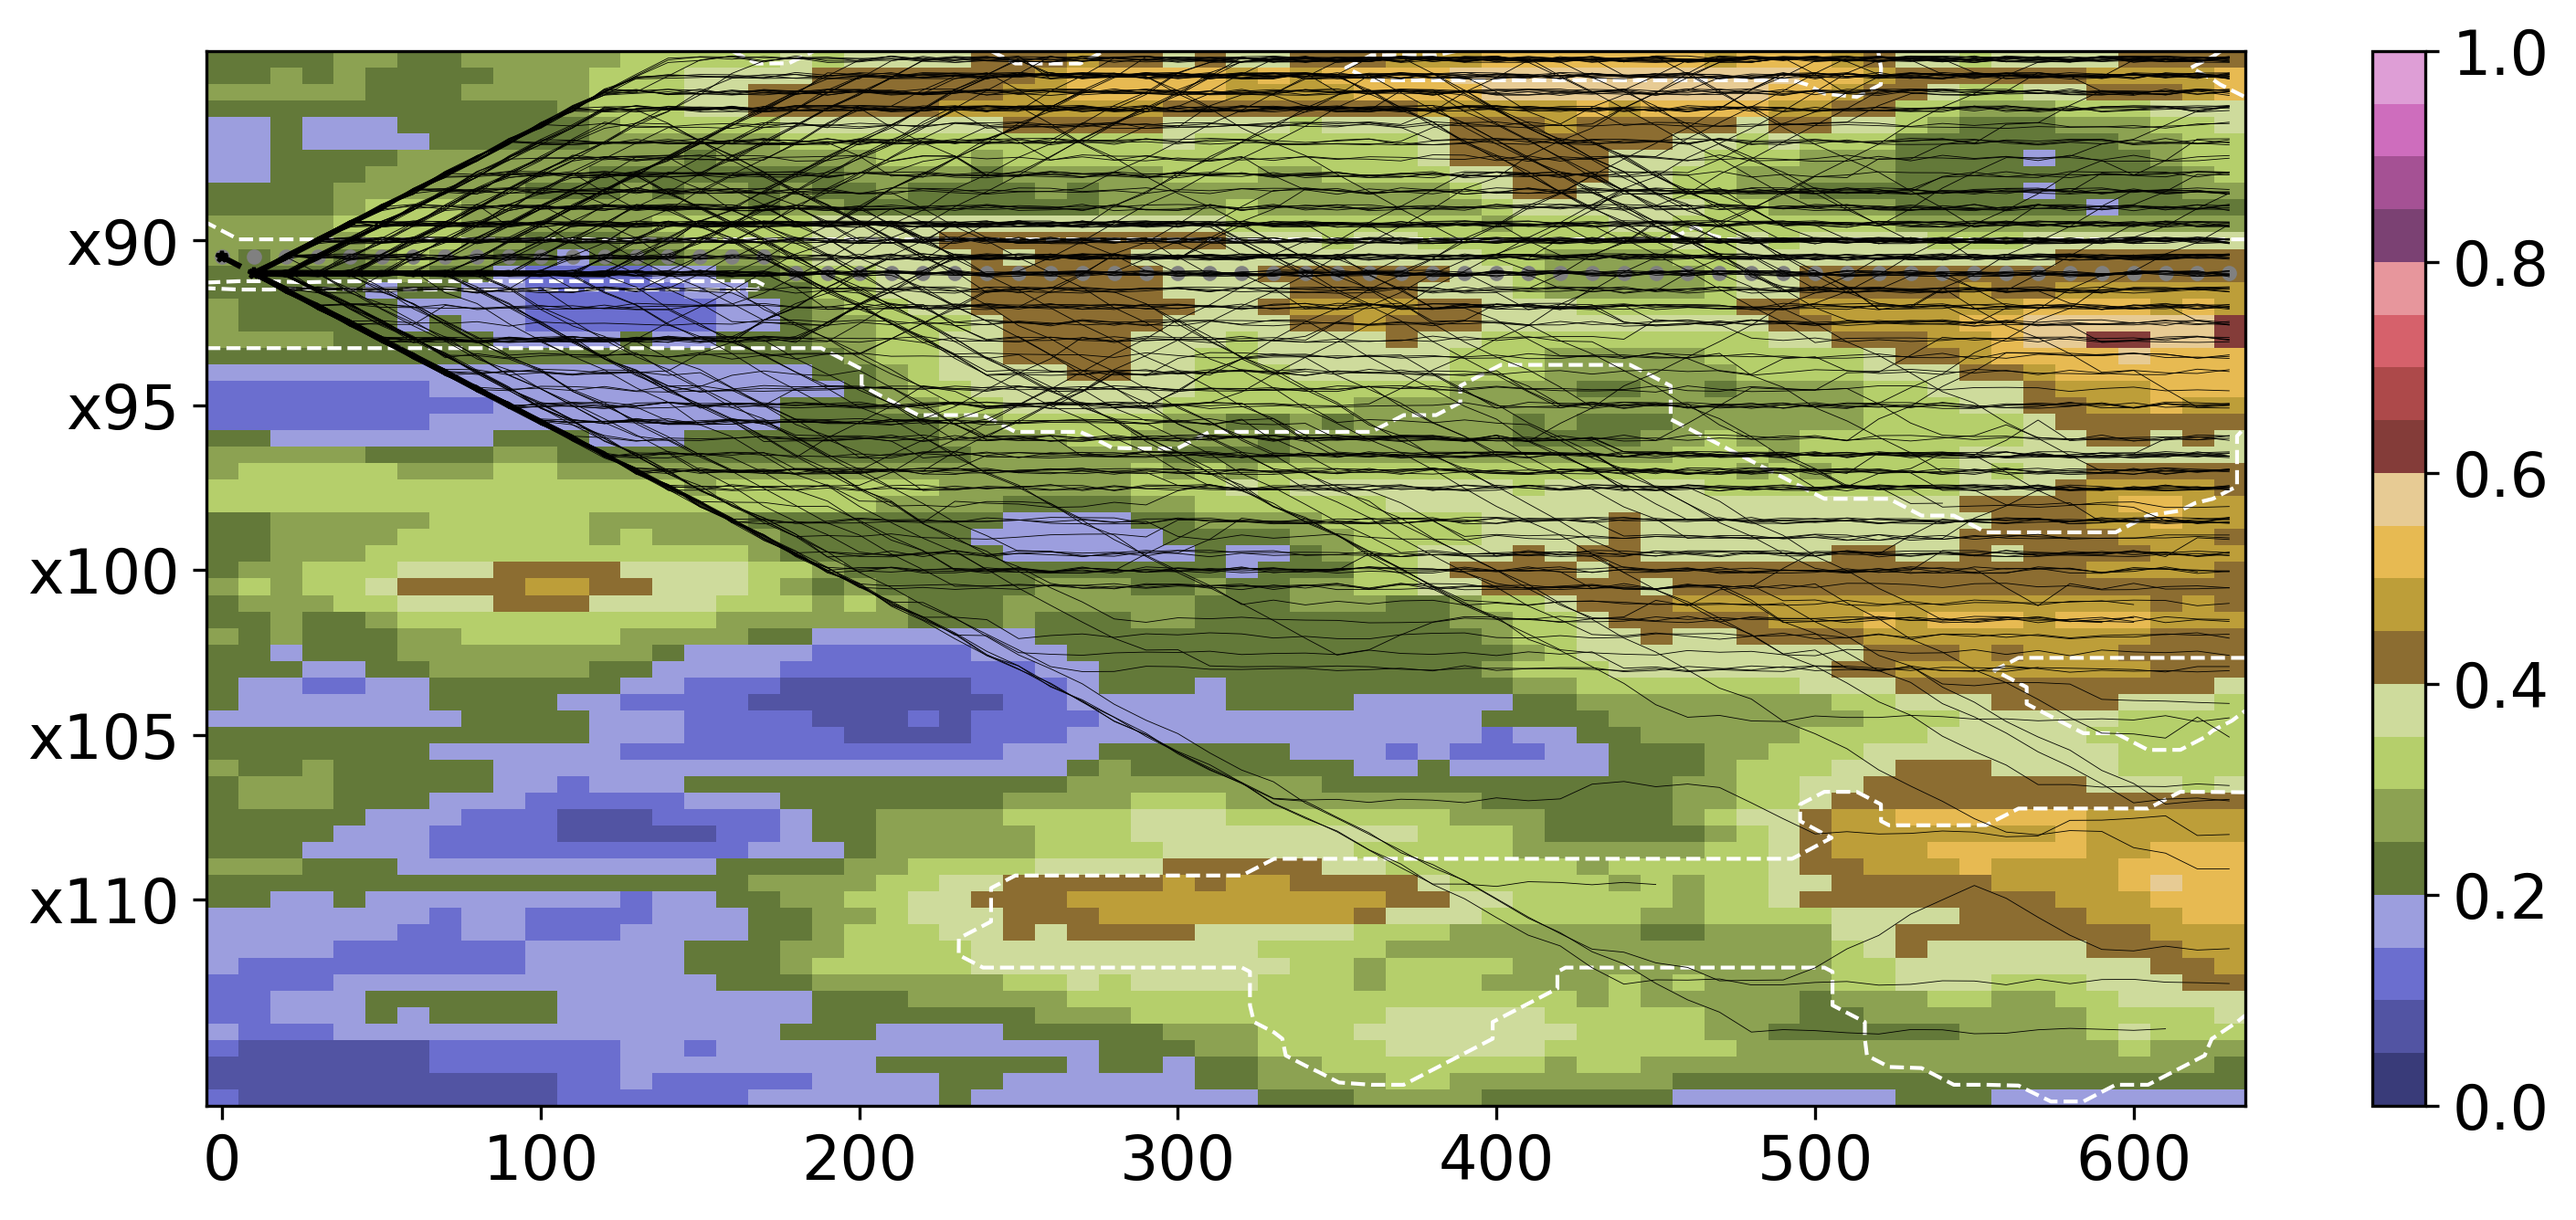
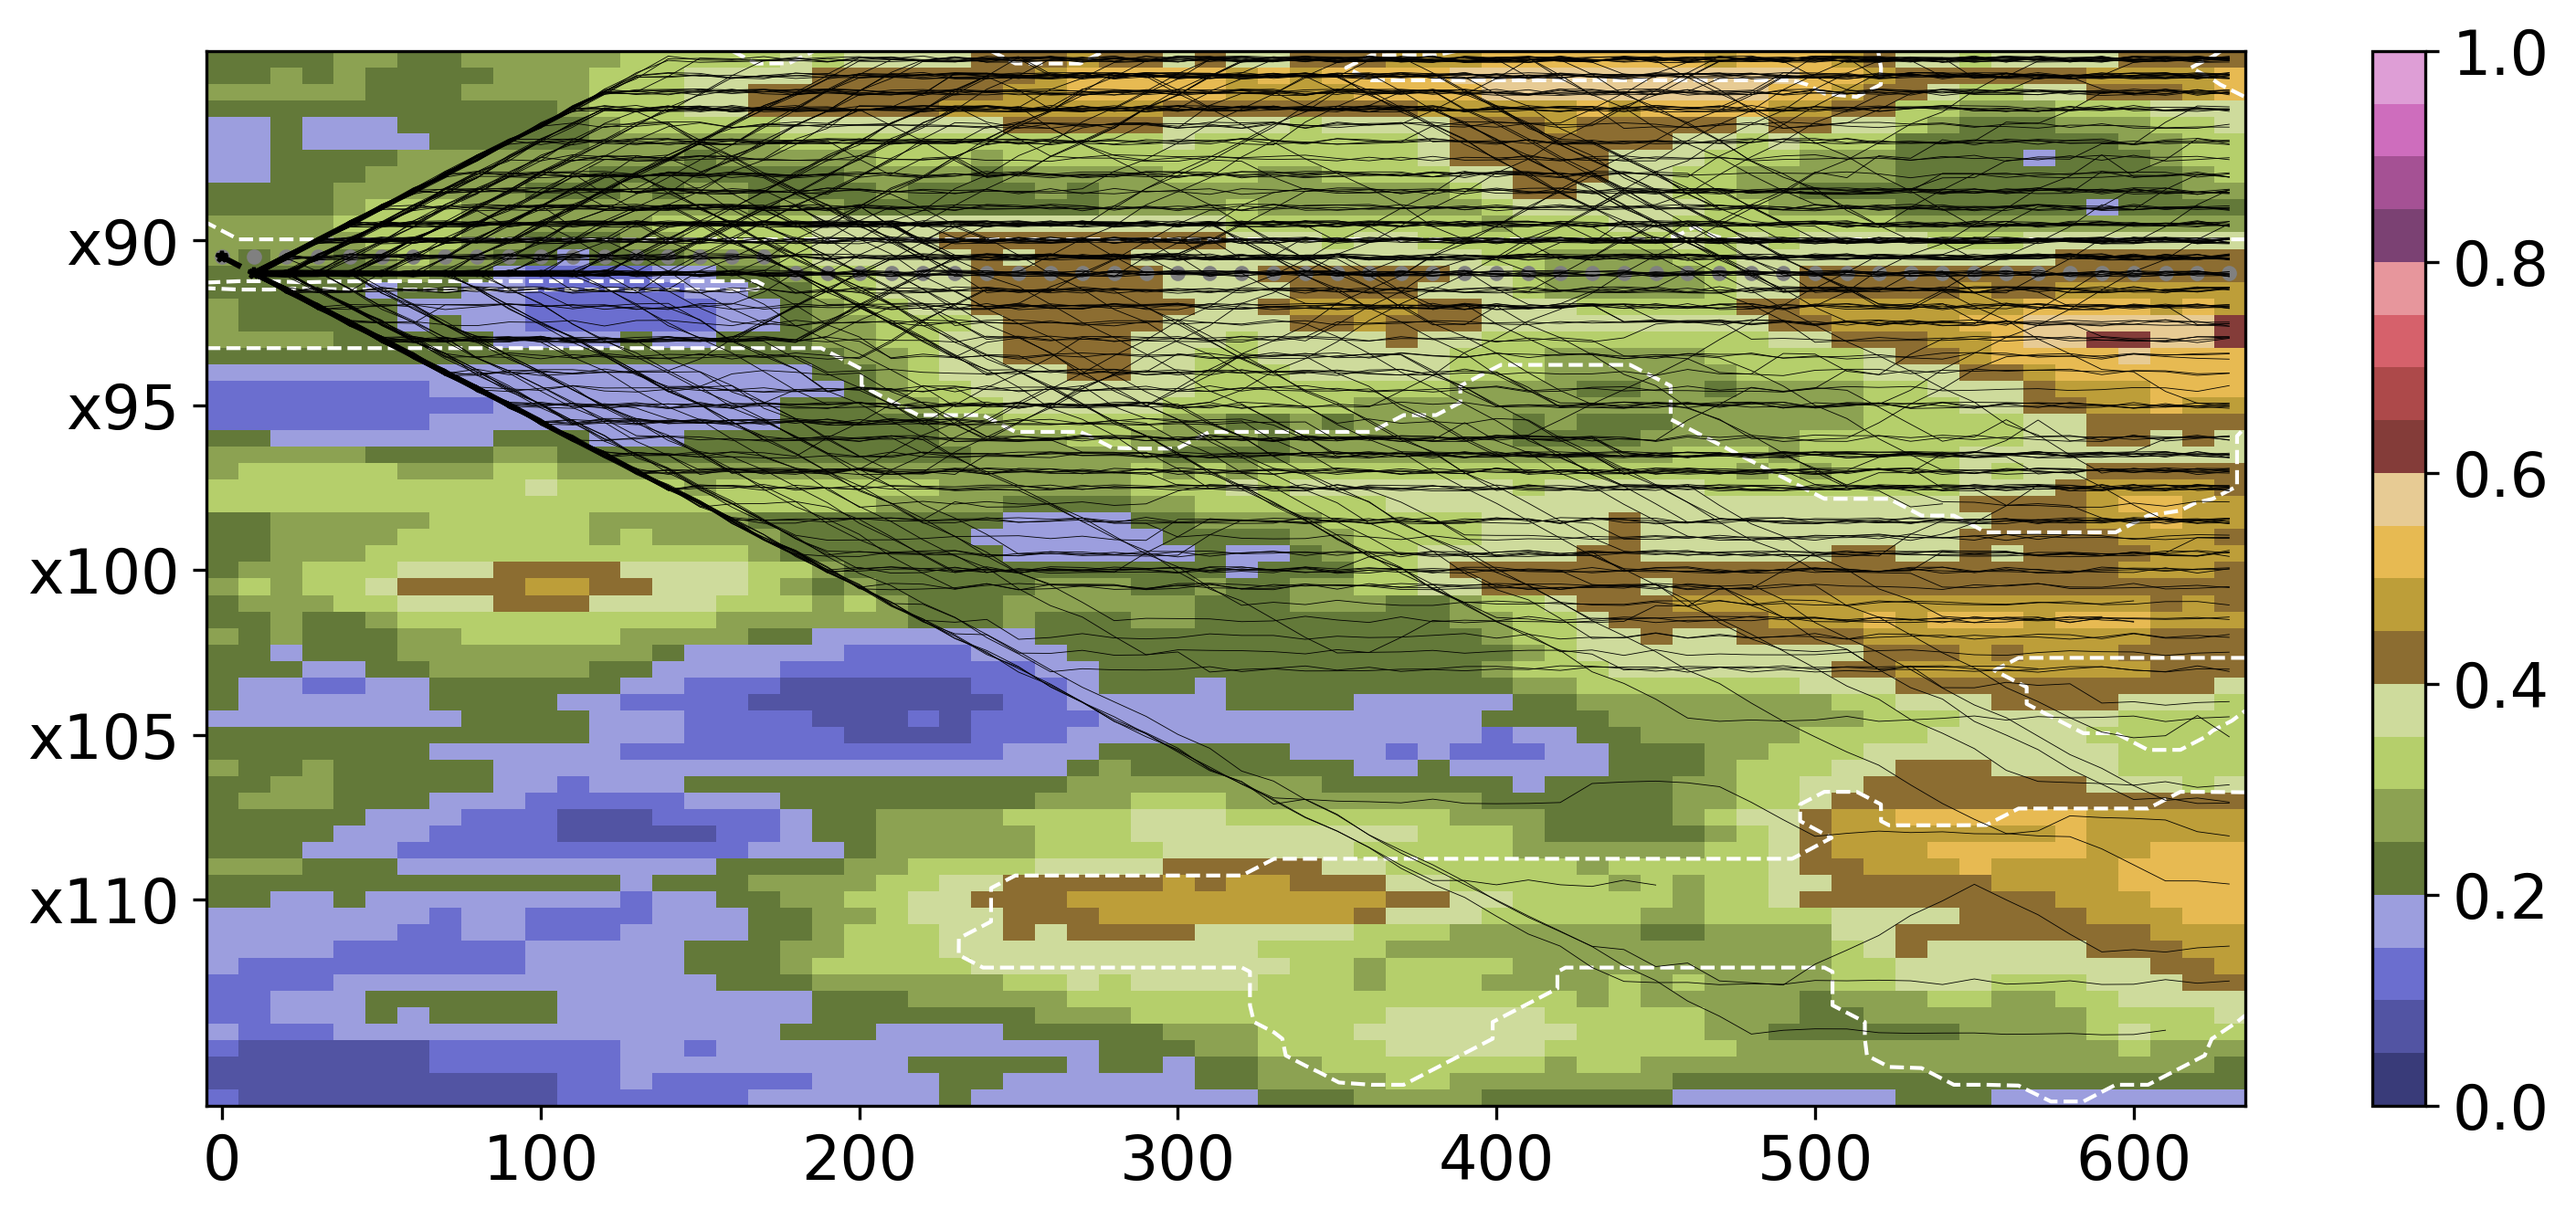
Add drilled path

diff --git a/batch_run/plot_result.py b/batch_run/plot_result.py
@@ -132,7 +132,11 @@ def plot_results_one_step(true_facies_image=None,
                         linewidths=1)
 
     # this plots already drilled path
-    # todo plot
+    drilled_path_x, drilled_path_y = convert_path_to_np_arrays(drilled_path)
+    ax_res.plot(drilled_path_x, drilled_path_y,
+                color='black',
+                linewidth=2)
+
 
     # this plots true best path
     true_path_x, true_path_y = convert_path_to_np_arrays(true_optimal_path)
